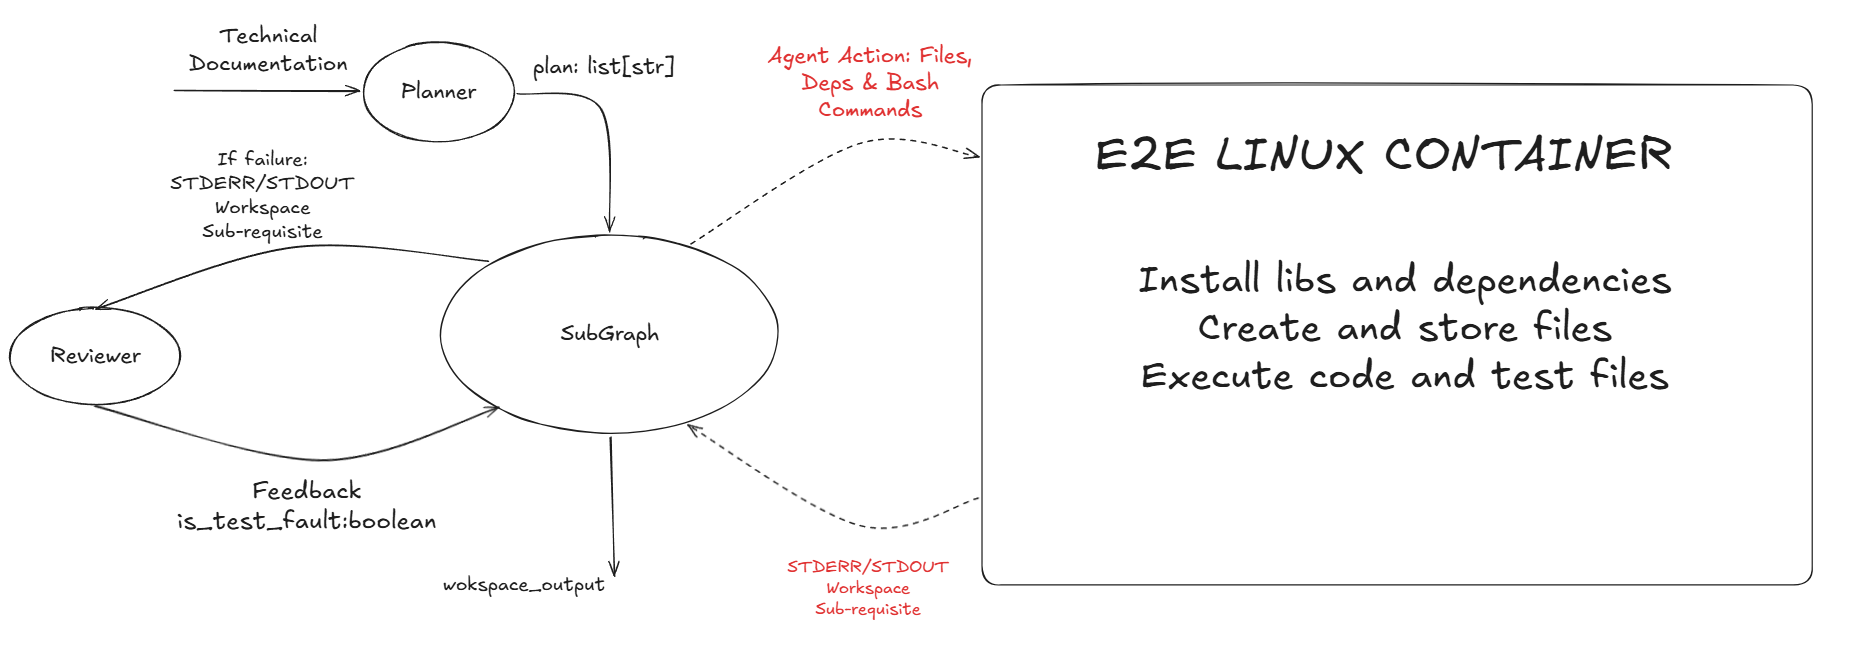
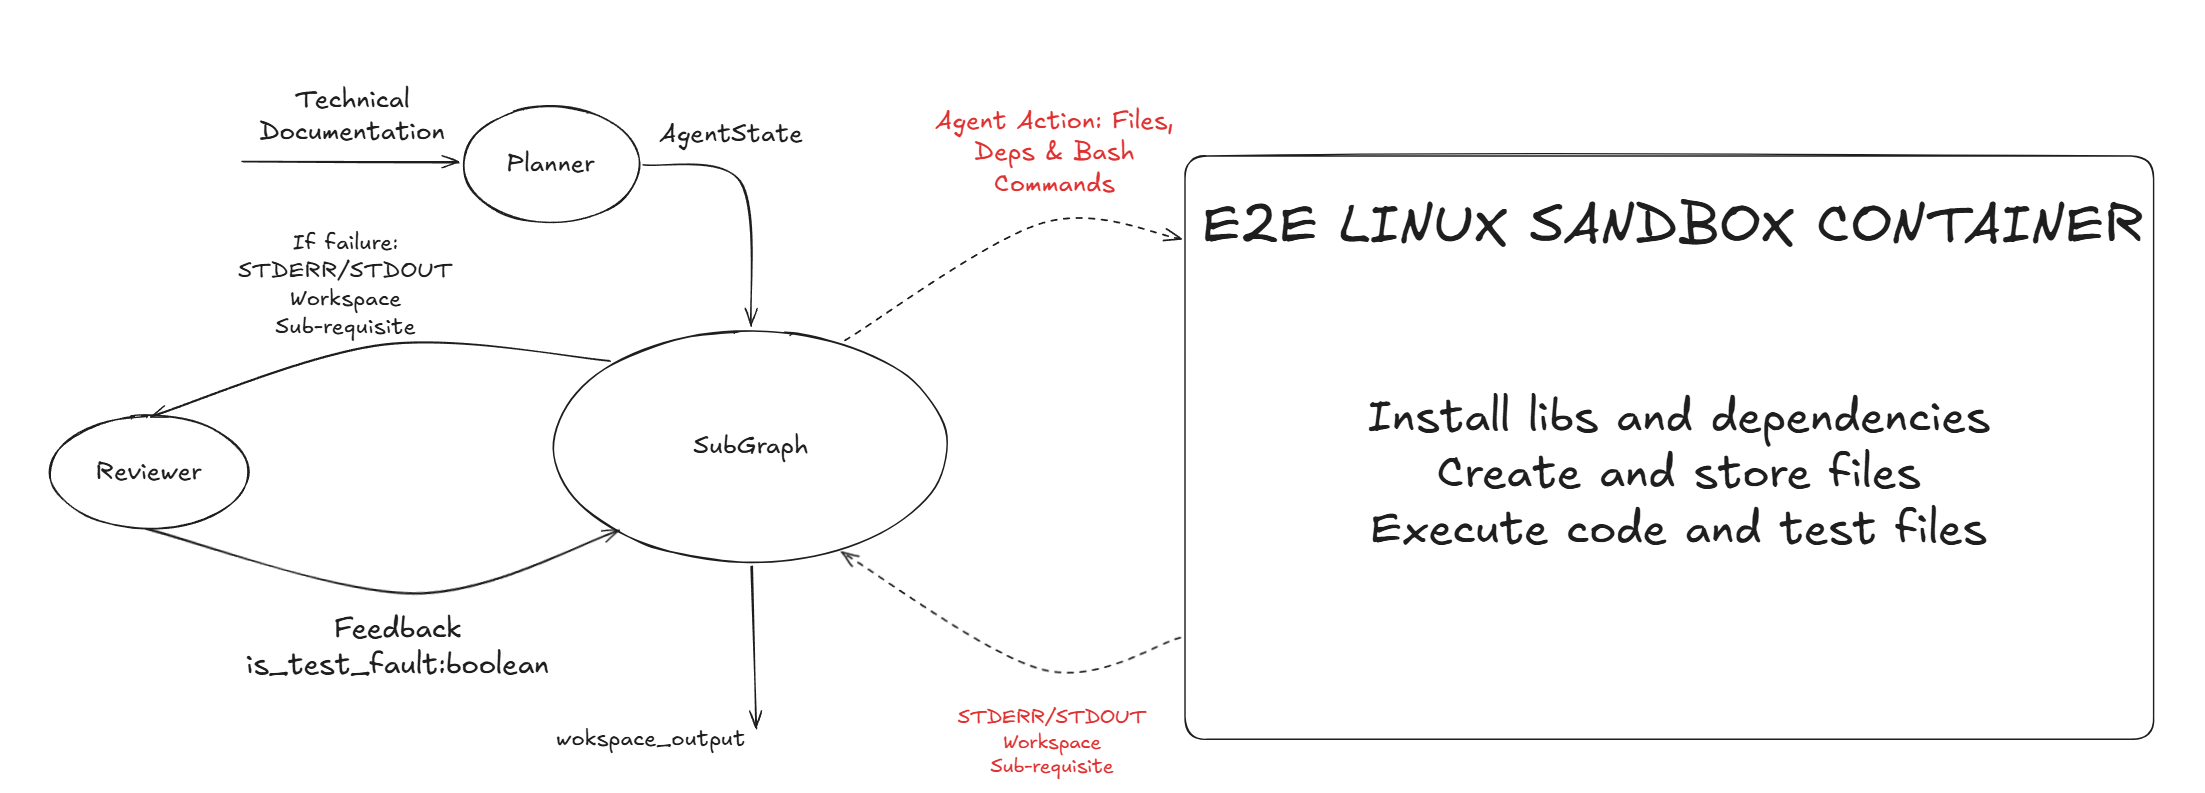
feat: Add new images for Overview and Quality Agent workflows in README

diff --git a/readme.md b/readme.md
@@ -53,6 +53,8 @@ Our pipeline follows the guidelines proposed by the standard TDD workflow:
 
 To guarantee reliability, the system executes agent-generated code inside secure **E2B sandbox environments** using the E2B Code Interpreter runtime. This ensures safe execution in the cloud and keeps dependencies and the file system isolated from the host. The workflow is managed by a **LangGraph** state machine backed by PostgreSQL, allowing the pipeline to handle interruptions, persist agent memory, and resume execution seamlessly without data loss.
 
+![Requirements Gathering Workflow](assets/Overview.png)
+
 ---
 
 ## How It Works
@@ -98,7 +100,17 @@ The **Runner Agent** is responsible for orchestrating the execution of agent-gen
 
 ![TDD Engeneering Workflow](assets/TDD_ENGENEERING_WORKFLOW.png)
 
+---
+
 ### Phase 3 — Quality assessement
+
+Upon completion, the workspace_output folder receives a final structured report generated by the **Quality Agent** containing:
+
+- **Cyclomatic Complexity** scores per function and module
+- **SOLID Principle** adherence analysis
+- **Architectural notes** and refactoring recommendations
+
+![TDD Engeneering Workflow](assets/Quality_Agent.png)
 
 ---
 
@@ -122,7 +134,7 @@ The **Runner Agent** is responsible for orchestrating the execution of agent-gen
   ║   AGENT     ║   ROLE           ║   RESPONSIBILITY                                      ║
   ╠═════════════╬══════════════════╬═══════════════════════════════════════════════════════╣
   ║  Analyst    ║  Product Manager ║  Converses with user. Clarifies "What" and "Why".     ║
-  ║             ║                  ║  Produces a validated requirements checklist.          ║
+  ║             ║                  ║  Produces a validated requirements checklist.         ║
   ╠═════════════╬══════════════════╬═══════════════════════════════════════════════════════╣
   ║  Engineer   ║  Tech Lead       ║  Converts checklist into a formal Markdown            ║
   ║             ║                  ║  Technical Specification document.                    ║
@@ -130,16 +142,17 @@ The **Runner Agent** is responsible for orchestrating the execution of agent-gen
   ║  Planner    ║  Architect       ║  Breaks the spec into atomic, testable vertical       ║
   ║             ║                  ║  slices. Sequences the TDD execution plan.            ║
   ╠═════════════╬══════════════════╬═══════════════════════════════════════════════════════╣
-  ║  Tester     ║  QA Engineer     ║  Writes pytest files before any implementation        ║
+  ║  Tester     ║  QA Engineer     ║  Writes test files before any implementation          ║
   ║             ║                  ║  exists. Must strictly follow the spec.               ║
   ╠═════════════╬══════════════════╬═══════════════════════════════════════════════════════╣
   ║  Developer  ║  Software Eng.   ║  Writes Python implementation to make tests pass.     ║
   ║             ║                  ║  Reads errors. Iterates until green.                  ║
   ╠═════════════╬══════════════════╬═══════════════════════════════════════════════════════╣
-  ║  Reviewer   ║  Debugger/Judge  ║  Reads stderr stack traces. Assigns fault to either   ║
-  ║             ║                  ║  bad code or bad tests. Routes the fix accordingly.   ║
+  ║  Reviewer   ║  Debugger/Judge  ║  Reads stderr and stdout stack traces.                ║
+  ║             ║                  ║  Assigns fault to either bad code or bad tests.       ║
+  ║             ║                  ║  Routes the fix accordingly.                          ║
   ╠═════════════╬══════════════════╬═══════════════════════════════════════════════════════╣
-  ║  CodeMetric ║  Auditor         ║  Final static analysis. Scores Cyclomatic Complexity  ║
+  ║  Qaulity    ║    Auditor       ║  Final static analysis. Scores Cyclomatic Complexity  ║
   ║             ║                  ║  and SOLID principle adherence. Generates audit log.  ║
   ╚═════════════╩══════════════════╩═══════════════════════════════════════════════════════╝
 ```
@@ -265,7 +278,7 @@ pip install -r requirements.txt
 
 ---
 
-## 🎮 Usage
+## Usage
 
 Run the main orchestrator entry point:
 
@@ -309,11 +322,11 @@ python -m app.main --thread-id "tdd-1a2b3c4d..."
 
 Resumes a previous session from the exact LangGraph checkpoint stored in PostgreSQL. Useful for recovering from crashes, timeouts, or manual interrupts.
 
-> 💡 **Thread IDs** are printed to the console at the start of every run. Save them to resume long-running sessions.
+> **Thread IDs** are printed to the console at the start of every run. Save them to resume long-running sessions.
 
 ---
 
-## 📦 Output & Deliverables
+## Output & Deliverables
 
 Upon successful completion, the system produces the following outputs:
 
@@ -326,46 +339,6 @@ All generated artifacts are extracted from the E2B Sandbox and saved locally:
 
 ```
 workspace_output/
-├── src/        ← Production implementation files (Python modules)
-└── tests/      ← Full pytest suite authored by the Tester agent
-```
-
-### 3. Quality Audit Report
-A final structured report generated by `CodeMetric-AI` containing:
-- **Cyclomatic Complexity** scores per function and module
-- **SOLID Principle** adherence analysis
-- **Architectural notes** and refactoring recommendations
-
----
-
-## 🛡 License
-
-This project is licensed under the **MIT License**.
-
-```
-MIT License
-
-Permission is hereby granted, free of charge, to any person obtaining a copy
-of this software and associated documentation files (the "Software"), to deal
-in the Software without restriction, including without limitation the rights
-to use, copy, modify, merge, publish, distribute, sublicense, and/or sell
-copies of the Software, and to permit persons to whom the Software is
-furnished to do so, subject to the following conditions:
-
-The above copyright notice and this permission notice shall be included in
-all copies or substantial portions of the Software.
-
-THE SOFTWARE IS PROVIDED "AS IS", WITHOUT WARRANTY OF ANY KIND, EXPRESS OR
-IMPLIED, INCLUDING BUT NOT LIMITED TO THE WARRANTIES OF MERCHANTABILITY,
-FITNESS FOR A PARTICULAR PURPOSE AND NONINFRINGEMENT.
 ```
 
 ---
-
-<div align="center">
-
-*Built with LangGraph · Powered by E2B · Persisted by PostgreSQL*
-
-**Red. Green. Ship.**
-
-</div>
